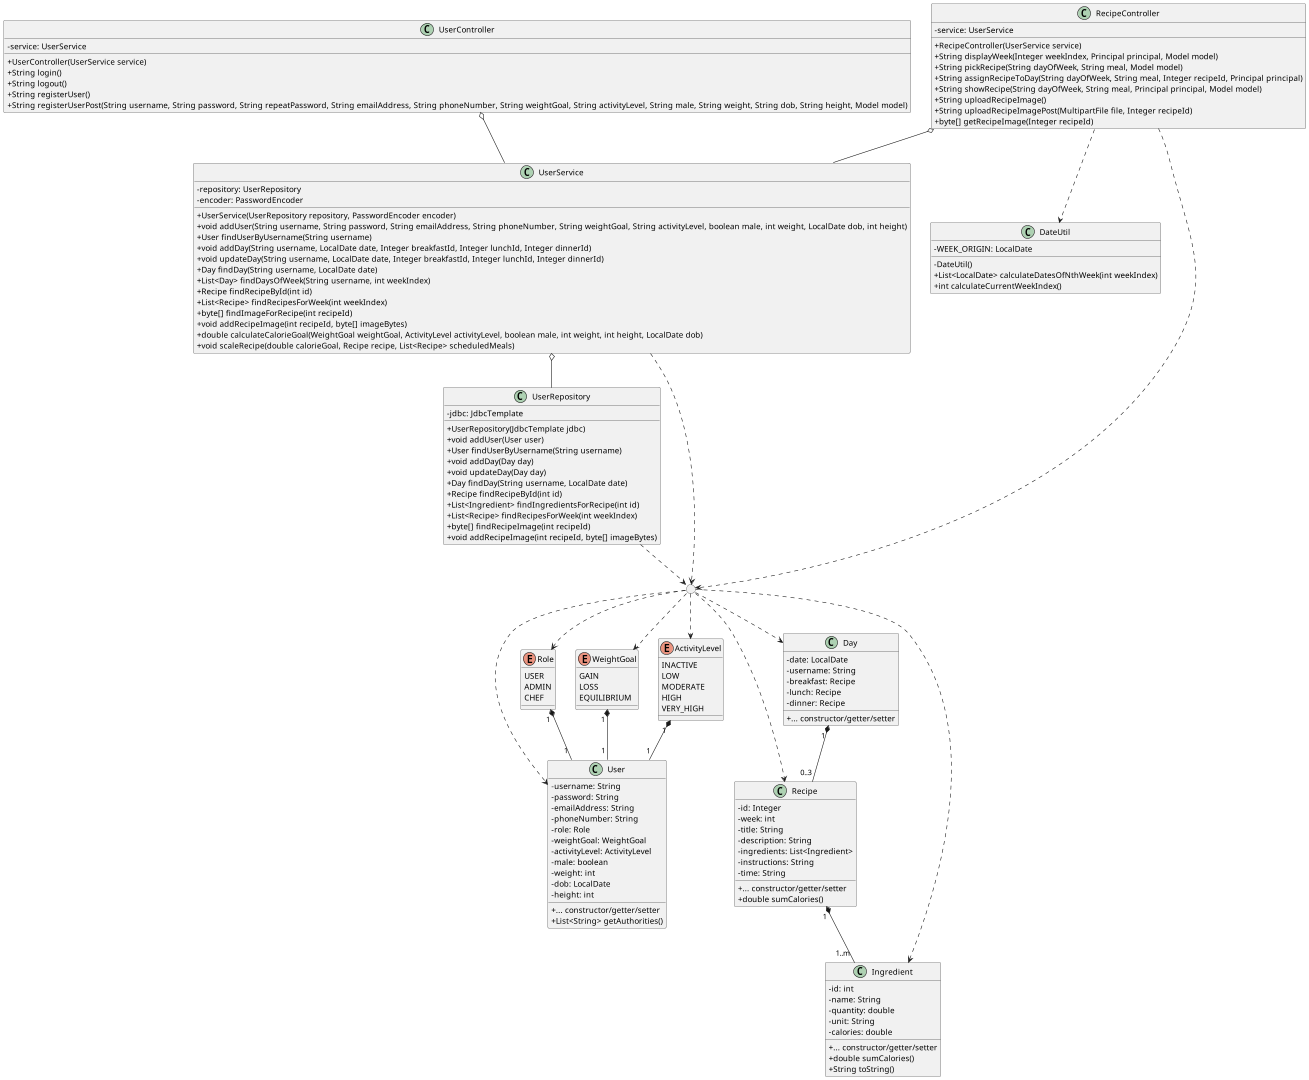
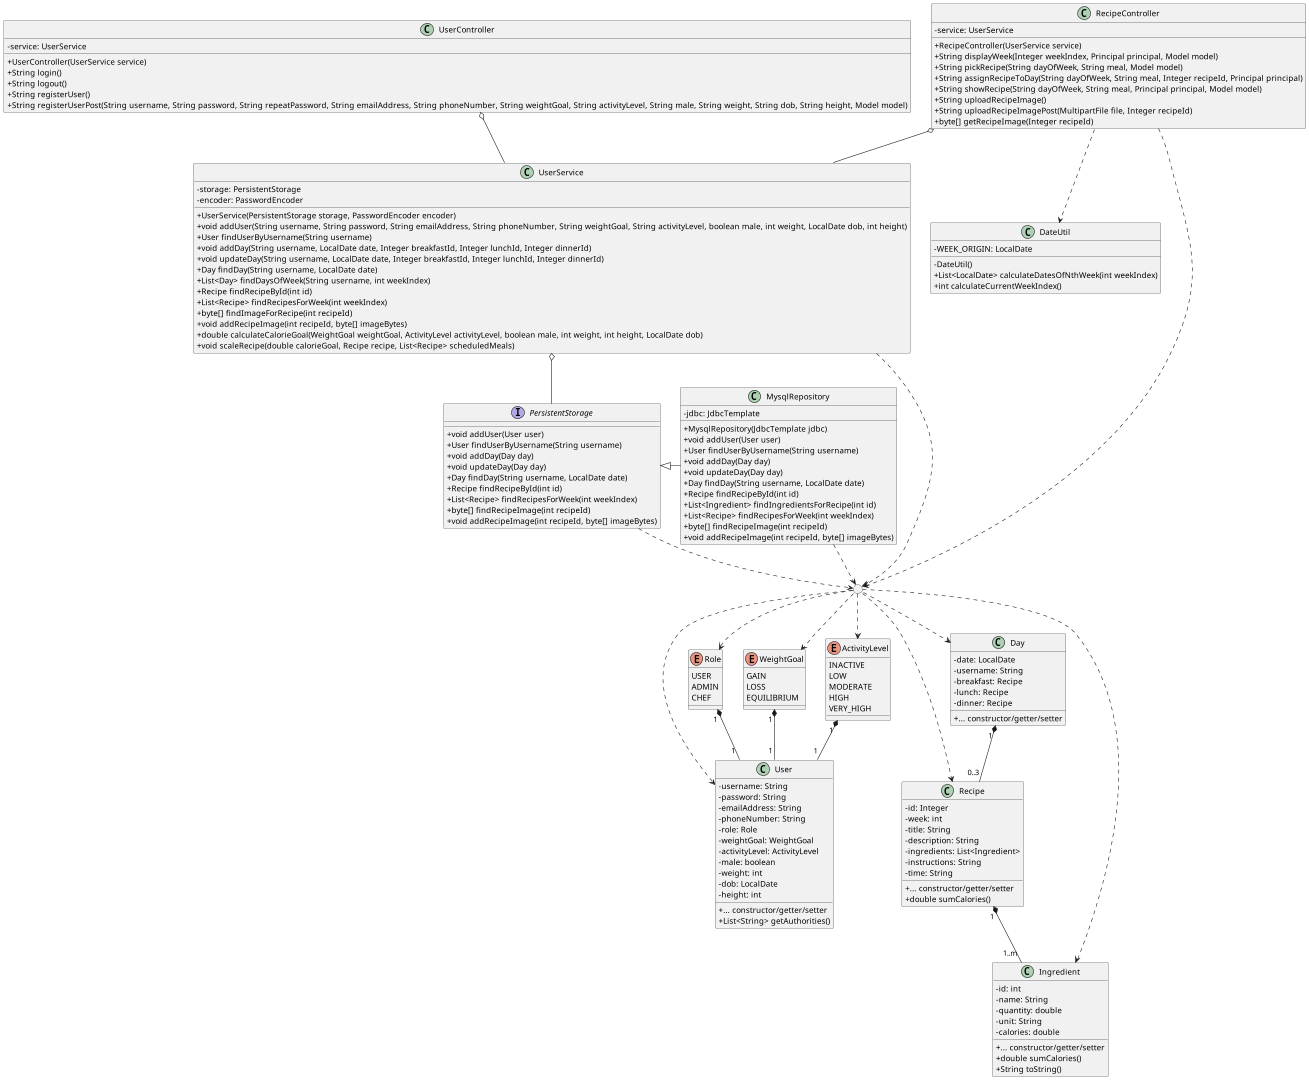
feat: add PersistentStorage interface

diff --git a/src/main/java/com/example/kostplan/service/UserService.java b/src/main/java/com/example/kostplan/service/UserService.java
@@ -1,7 +1,6 @@
 package com.example.kostplan.service;
 
 import com.example.kostplan.entity.*;
-import com.example.kostplan.repository.UserRepository;
 import org.springframework.beans.factory.annotation.Autowired;
 import org.springframework.dao.DataAccessException;
 import org.springframework.security.access.prepost.PreAuthorize;
@@ -17,19 +16,19 @@ import java.util.stream.IntStream;
 
 @Service
 public class UserService {
-	private final UserRepository repository;
+	private final PersistentStorage storage;
 	private final PasswordEncoder encoder;
 
 	@Autowired
-	public UserService(UserRepository repository, PasswordEncoder encoder) {
-		this.repository = repository;
+	public UserService(PersistentStorage storage, PasswordEncoder encoder) {
+		this.storage = storage;
 		this.encoder = encoder;
 	}
 
 	public User findUserByUsername(String username)
 		throws DataAccessException
 	{
-		return this.repository.findUserByUsername(username);
+		return this.storage.findUserByUsername(username);
 	}
 
 	public void addUser(
@@ -91,7 +90,7 @@ public class UserService {
 			height
 		);
 
-		this.repository.addUser(user);
+		this.storage.addUser(user);
 	}
 
 	@PreAuthorize("#username == authentication.principal.username || hasRole('ADMIN')")
@@ -111,7 +110,7 @@ public class UserService {
 		if (dinnerId != null) dinner = this.findRecipeById(dinnerId);
 
 		Day day = new Day(date, username, breakfast, lunch, dinner);
-		this.repository.addDay(day);
+		this.storage.addDay(day);
 	}
 
 	@PreAuthorize("#username == authentication.principal.username || hasRole('ADMIN')")
@@ -130,7 +129,7 @@ public class UserService {
 		if (lunchId != null) lunch = this.findRecipeById(lunchId);
 		if (dinnerId != null) dinner = this.findRecipeById(dinnerId);
 
-		this.repository.updateDay(new Day(
+		this.storage.updateDay(new Day(
 			date,
 			username,
 			breakfast,
@@ -143,21 +142,21 @@ public class UserService {
 	public Day findDay(String username, LocalDate localDate)
 		throws DataAccessException
 	{
-		return this.repository.findDay(username, localDate);
+		return this.storage.findDay(username, localDate);
 	}
 
 	@PreAuthorize("isAuthenticated()")
 	public Recipe findRecipeById(Integer recipeId)
 		throws DataAccessException
 	{
-		return this.repository.findRecipeById(recipeId);
+		return this.storage.findRecipeById(recipeId);
 	}
 
 	@PreAuthorize("isAuthenticated()")
 	public List<Recipe> findRecipesForWeek(int weekIndex)
 		throws DataAccessException
 	{
-		return this.repository.findRecipesForWeek(weekIndex);
+		return this.storage.findRecipesForWeek(weekIndex);
 	}
 
 	/**
@@ -178,7 +177,7 @@ public class UserService {
 				Day day = new Day(date, username, null, null, null);
 
 				try {
-					Day dayResult = this.repository.findDay(username, date);
+					Day dayResult = this.storage.findDay(username, date);
 
 					if (dayResult != null)
 						day = dayResult;
@@ -196,14 +195,14 @@ public class UserService {
 	public byte[] findRecipeImage(int recipeId)
 		throws DataAccessException
 	{
-		return this.repository.findRecipeImage(recipeId);
+		return this.storage.findRecipeImage(recipeId);
 	}
 
 	@PreAuthorize("hasRole('ADMIN') || hasRole('CHEF')")
 	public void addRecipeImage(int recipeId, byte[] imageBytes)
 		throws DataAccessException
 	{
-		this.repository.addRecipeImage(recipeId, imageBytes);
+		this.storage.addRecipeImage(recipeId, imageBytes);
 	}
 
 	/**

diff --git a/src/main/java/com/example/kostplan/repository/MysqlRepository.java b/src/main/java/com/example/kostplan/repository/MysqlRepository.java
@@ -1,6 +1,7 @@
 package com.example.kostplan.repository;
 
 import com.example.kostplan.entity.*;
+import com.example.kostplan.service.PersistentStorage;
 import org.springframework.beans.factory.annotation.Autowired;
 import org.springframework.dao.DataAccessException;
 import org.springframework.jdbc.core.JdbcTemplate;
@@ -11,11 +12,11 @@ import java.time.LocalDate;
 import java.util.List;
 
 @Repository
-public class UserRepository {
+public class MysqlRepository implements PersistentStorage {
 	private final JdbcTemplate jdbc;
 
 	@Autowired
-	public UserRepository(JdbcTemplate jdbc)
+	public MysqlRepository(JdbcTemplate jdbc)
 		throws DataAccessException
 	{
 		this.jdbc = jdbc;
@@ -92,6 +93,7 @@ public class UserRepository {
 			""");
 	}
 
+	@Override
 	public User findUserByUsername(String username)
 		throws DataAccessException
 	{
@@ -125,6 +127,7 @@ public class UserRepository {
 		return users.getFirst();
 	}
 
+	@Override
 	public void addUser(User user)
 		throws DataAccessException
 	{
@@ -149,6 +152,7 @@ public class UserRepository {
 		);
 	}
 
+	@Override
 	public Recipe findRecipeById(int id)
 		throws DataAccessException
 	{
@@ -182,6 +186,7 @@ public class UserRepository {
 		return recipe;
 	}
 
+	@Override
 	public List<Recipe> findRecipesForWeek(int weekIndex)
 		throws DataAccessException
 	{
@@ -213,28 +218,7 @@ public class UserRepository {
 		return recipes;
 	}
 
-	private List<Ingredient> findIngredientsForRecipe(int recipeId)
-		throws DataAccessException
-	{
-		String ingredientQuery = """
-            SELECT id, recipe, name, quantity, unit, calories
-            FROM Ingredient
-            WHERE recipe = ?;
-            """;
-
-		return this.jdbc.query(
-			ingredientQuery,
-			(rs, rowNum) -> new Ingredient(
-				rs.getInt("id"),
-				rs.getString("name"),
-				rs.getDouble("quantity"),
-				rs.getString("unit"),
-				rs.getDouble("calories")
-			),
-			recipeId
-		);
-	}
-
+	@Override
 	public void addDay(Day day)
 		throws DataAccessException
 	{
@@ -261,6 +245,7 @@ public class UserRepository {
 		);
 	}
 
+	@Override
 	public void updateDay(Day day)
 		throws DataAccessException
 	{
@@ -288,6 +273,7 @@ public class UserRepository {
 		);
 	}
 
+	@Override
 	public Day findDay(String username, LocalDate date)
 		throws DataAccessException
 	{
@@ -316,6 +302,7 @@ public class UserRepository {
 		return days.getFirst();
 	}
 
+	@Override
 	public byte[] findRecipeImage(int recipeId)
 		throws DataAccessException
 	{
@@ -343,6 +330,7 @@ public class UserRepository {
 		return bytesList.getFirst();
 	}
 
+	@Override
 	public void addRecipeImage(int recipeId, byte[] imageBytes)
 		throws DataAccessException
 	{
@@ -355,6 +343,28 @@ public class UserRepository {
 			sql,
 			recipeId,
 			imageBytes
+		);
+	}
+
+	private List<Ingredient> findIngredientsForRecipe(int recipeId)
+		throws DataAccessException
+	{
+		String ingredientQuery = """
+            SELECT id, recipe, name, quantity, unit, calories
+            FROM Ingredient
+            WHERE recipe = ?;
+            """;
+
+		return this.jdbc.query(
+			ingredientQuery,
+			(rs, rowNum) -> new Ingredient(
+				rs.getInt("id"),
+				rs.getString("name"),
+				rs.getDouble("quantity"),
+				rs.getString("unit"),
+				rs.getDouble("calories")
+			),
+			recipeId
 		);
 	}
 }

diff --git a/src/test/java/com/example/kostplan/RecipeTests.java b/src/test/java/com/example/kostplan/RecipeTests.java
@@ -1,7 +1,7 @@
 package com.example.kostplan;
 
 import com.example.kostplan.entity.*;
-import com.example.kostplan.repository.UserRepository;
+import com.example.kostplan.repository.MysqlRepository;
 import com.example.kostplan.service.UserService;
 import org.assertj.core.api.Assertions;
 import org.junit.jupiter.api.Test;
@@ -90,7 +90,7 @@ class RecipeTests {
 			174
 		);
 
-		UserRepository mockRepo = Mockito.mock(UserRepository.class);
+		MysqlRepository mockRepo = Mockito.mock(MysqlRepository.class);
 		UserService service = new UserService(mockRepo, passwordEncoder);
 
 		Mockito

diff --git a/src/main/java/com/example/kostplan/service/PersistentStorage.java b/src/main/java/com/example/kostplan/service/PersistentStorage.java
@@ -1,0 +1,18 @@
+package com.example.kostplan.service;
+
+import com.example.kostplan.entity.*;
+
+import java.time.LocalDate;
+import java.util.List;
+
+public interface PersistentStorage {
+	User findUserByUsername(String username);
+	void addUser(User user);
+	Recipe findRecipeById(int id);
+	List<Recipe> findRecipesForWeek(int weekIndex);
+	void addDay(Day day);
+	void updateDay(Day day);
+	Day findDay(String username, LocalDate date);
+	byte[] findRecipeImage(int recipeId);
+	void addRecipeImage(int recipeId, byte[] imageBytes);
+}
